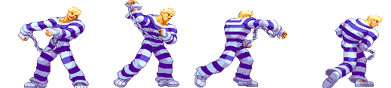
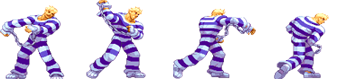
correcao characters

diff --git a/static/script/PreloadGame.js b/static/script/PreloadGame.js
@@ -47,9 +47,9 @@ class PreloadGame extends Phaser.Scene {
 
     //Fighter 3
     this.load.spritesheet('f3_w', 'static/img/fighters/3_walk.png', {frameWidth: 62, frameHeight: 80})
-    this.load.spritesheet('f3_jump', 'static/img/fighters/3_jump.png', {frameWidth: 62.3, frameHeight: 106})
+    this.load.spritesheet('f3_jump', 'static/img/fighters/3_jump.png', {frameWidth: 57.5, frameHeight: 82})
     this.load.spritesheet('f3_atck', 'static/img/fighters/3_attack1.png', {frameWidth: 81, frameHeight: 80})
-    this.load.spritesheet('f3_fire', 'static/img/fighters/3_attack2.png', {frameWidth: 98, frameHeight: 88})
+    this.load.spritesheet('f3_fire', 'static/img/fighters/3_attack2.png', {frameWidth: 86.5, frameHeight: 79})
     this.load.image('f3_proj', 'static/img/fighters/3_projetil.png')
 
     gameState.hasMusic = false
